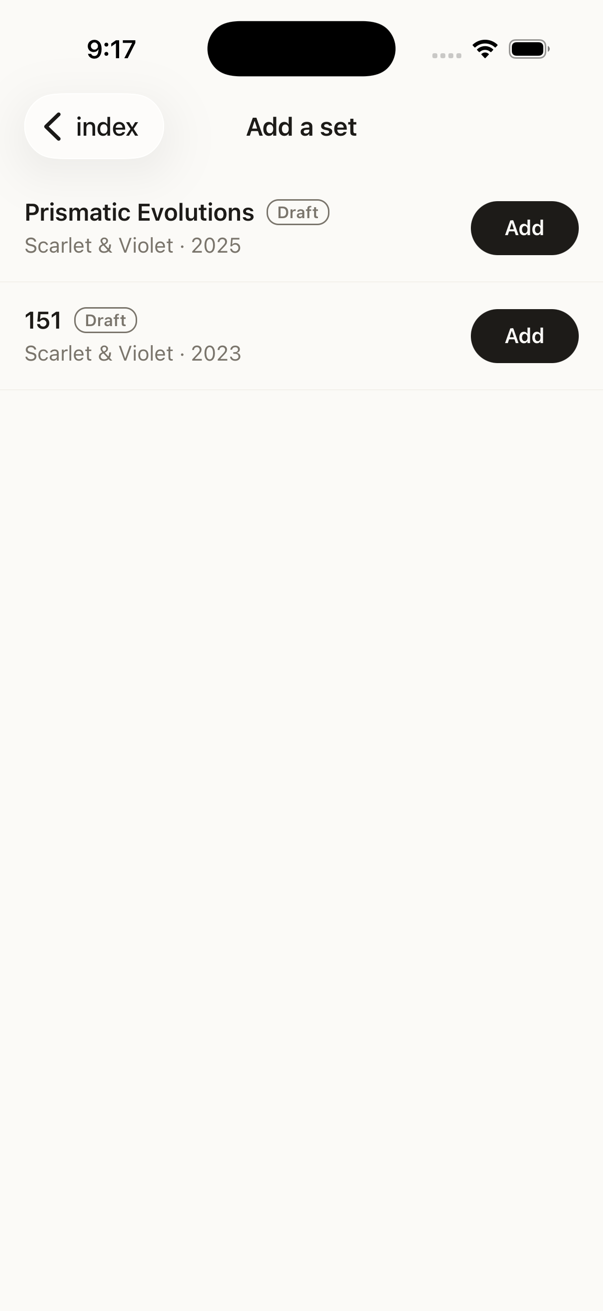
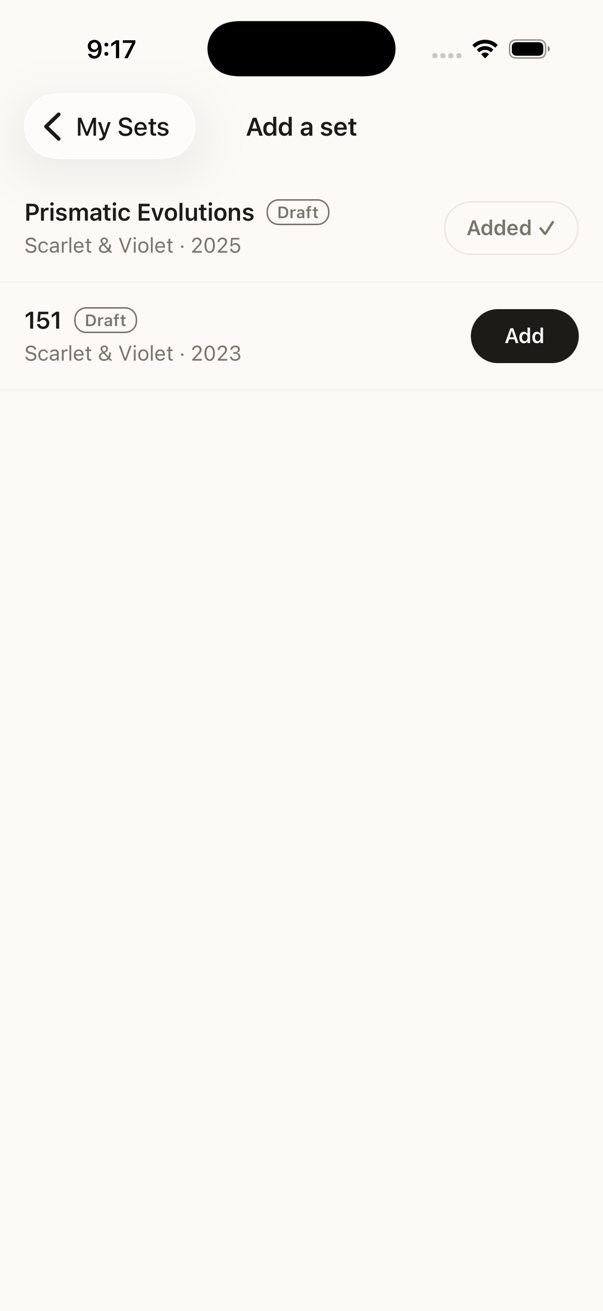
docs: retake iOS screenshots after the final fixes; new README hero
Replaces the shots that showed the old "index" back label (02, 04-07, 11,
13, 15, 17), adds ios-24 (double-tap under Missing), ios-25 (hero) and
ios-26 (re-added set keeps its hidden category), and notes which shots
predate the fixes.

Changed region(s): [[0.7761, 0.1526, 0.9552, 0.2136], [0.1194, 0.0915, 0.2687, 0.122]]

diff --git a/docs/screenshots/plan-2/NOTES.md b/docs/screenshots/plan-2/NOTES.md
@@ -1,0 +1,4 @@
+# Plan 2 screenshots
+
+- Retaken after the final review fixes (iPhone 17 Pro, iOS 26.3): ios-02, 04–07, 11, 13, 15, 17, plus new ios-24 (rapid double-tap under Missing marks the same card twice), ios-25 (README hero) and ios-26 (a removed set re-added keeps its hidden category). ios-09 and ios-10 re-captured identical.
+- ios-01, 03, 08, 12, 14, 16, 18–23 and the web-* shots predate those fixes: they show the old, lighter Normal colour (#A39D92), and the set screens among them (ios-20, 22, 23, web-03, web-04) still repeat the set name under the navigation title.

diff --git a/README.md b/README.md
@@ -7,7 +7,7 @@ have, and see at a glance what's missing and what you have spare.
 The design is in
 [`docs/superpowers/specs/2026-11-14-master-set-tracker-design.md`](docs/superpowers/specs/2026-11-14-master-set-tracker-design.md).
 
-![The 151 set screen on iPhone](docs/screenshots/plan-2/ios-05-normal-dot-badge-2.png)
+![The 151 set screen on iPhone](docs/screenshots/plan-2/ios-25-hero-set-screen-light.png)
 
 More screenshots: [`docs/screenshots/plan-2/`](docs/screenshots/plan-2/).
 
